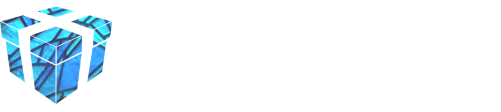
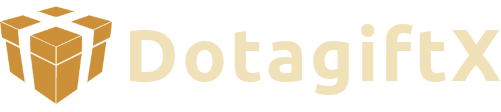
revert ti11 theme

Changed region(s): [[0.0, 0.1339, 1.0, 0.9375], [0.0599, 0.0536, 0.1497, 0.1607]]

diff --git a/web/lib/theme.js b/web/lib/theme.js
@@ -14,7 +14,7 @@ const baseThemeOpts = {
       dark: grey[400],
     },
     secondary: {
-      main: '#60CED9',
+      main: '#C79123',
     },
     bid: {
       main: teal[300],
@@ -23,8 +23,8 @@ const baseThemeOpts = {
       main: teal.A200,
     },
     background: {
-      default: '#071520',
-      paper: '#0b232a',
+      default: '#263238',
+      paper: '#2e3d44',
     },
     // App specific colors.
     app: {
